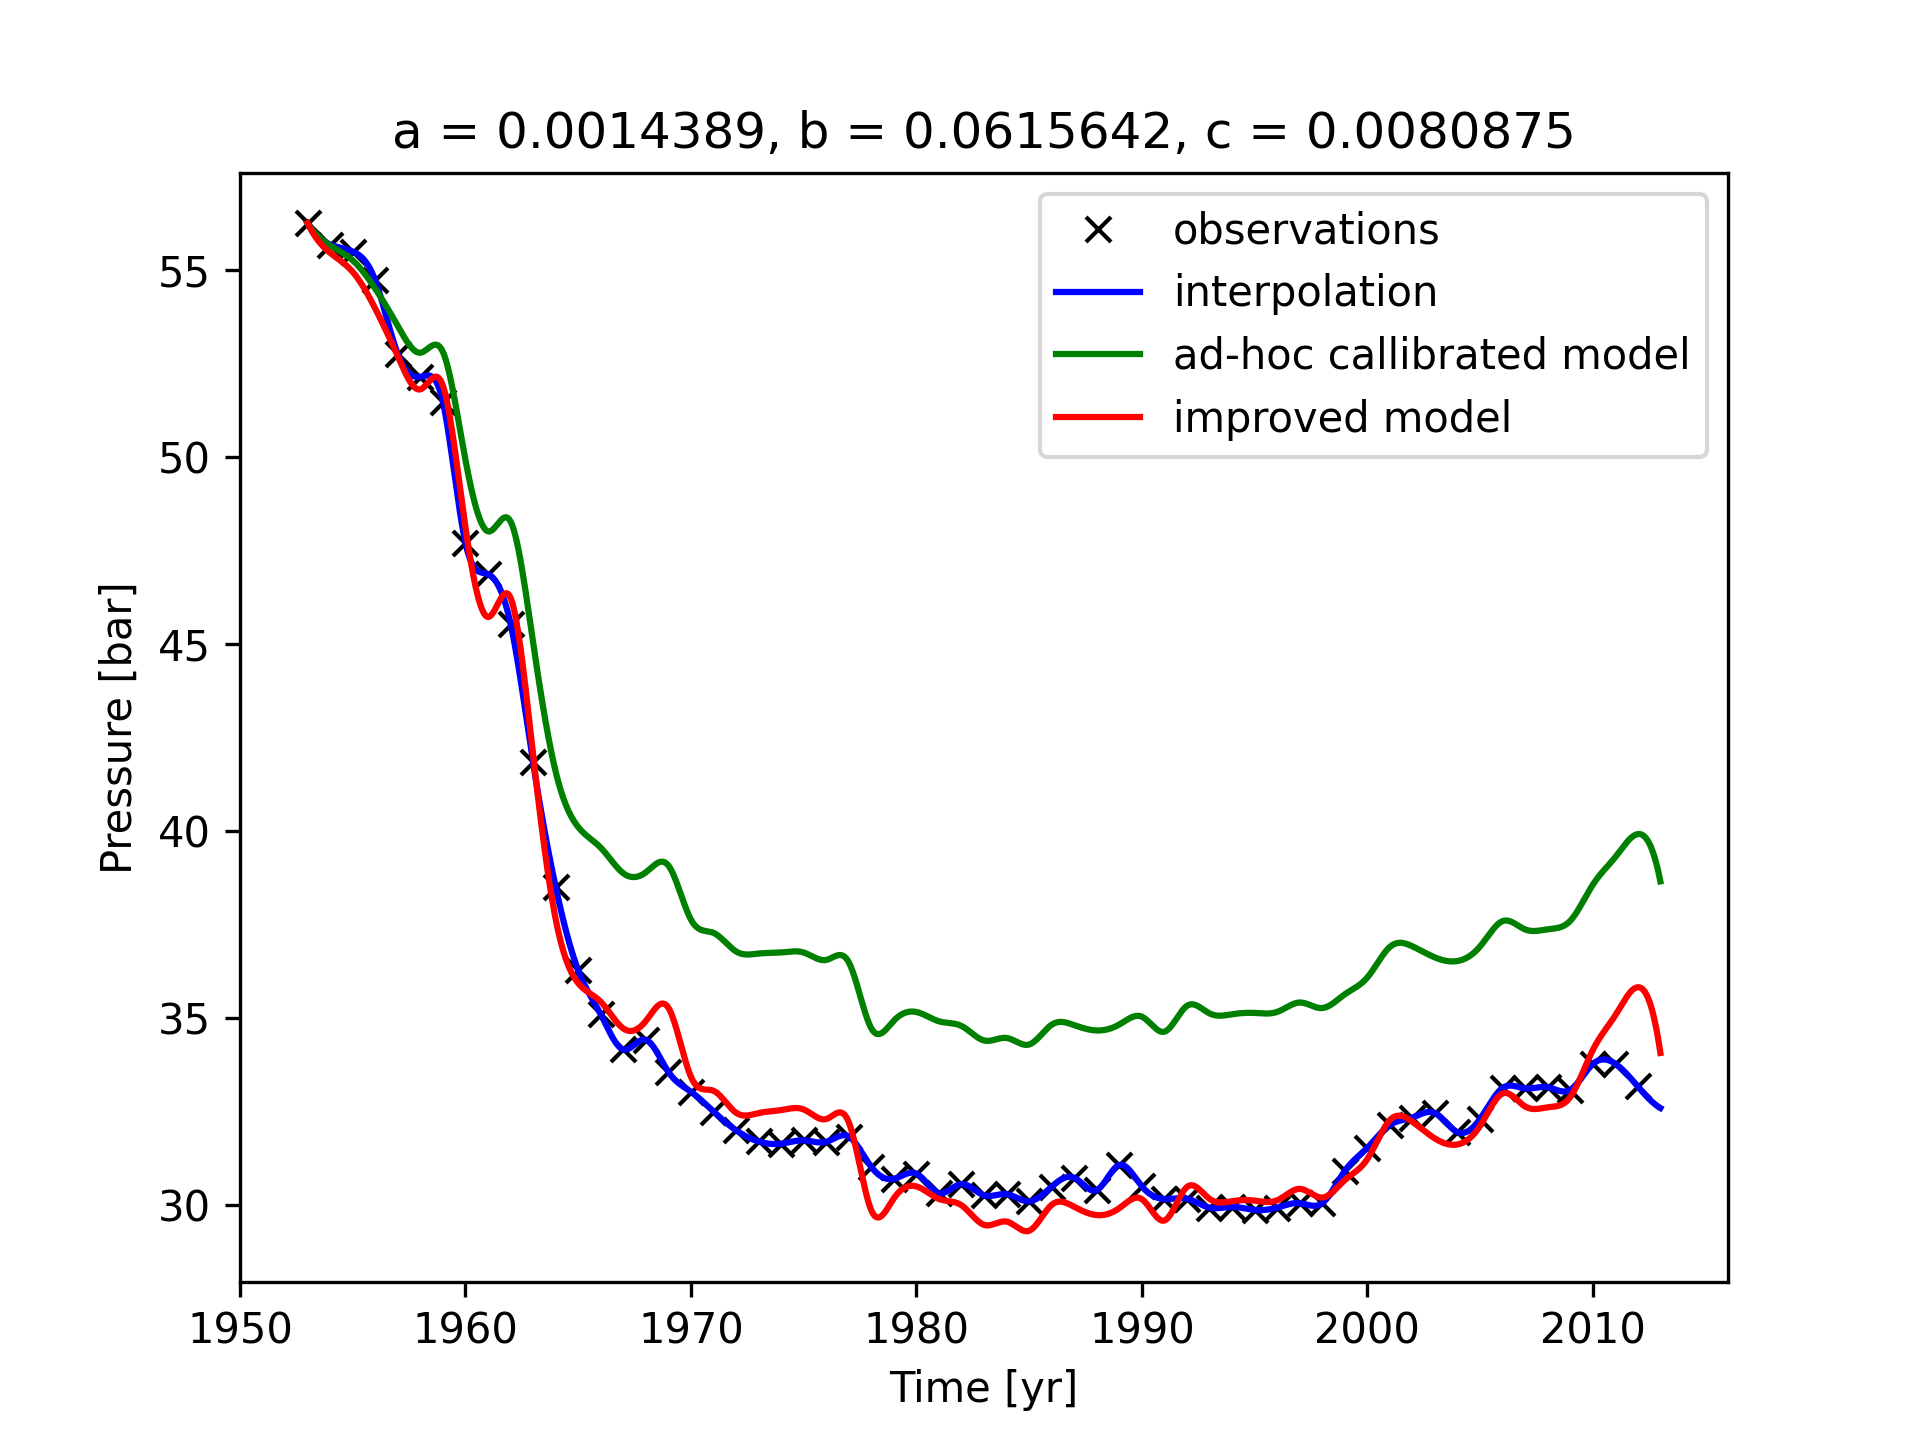
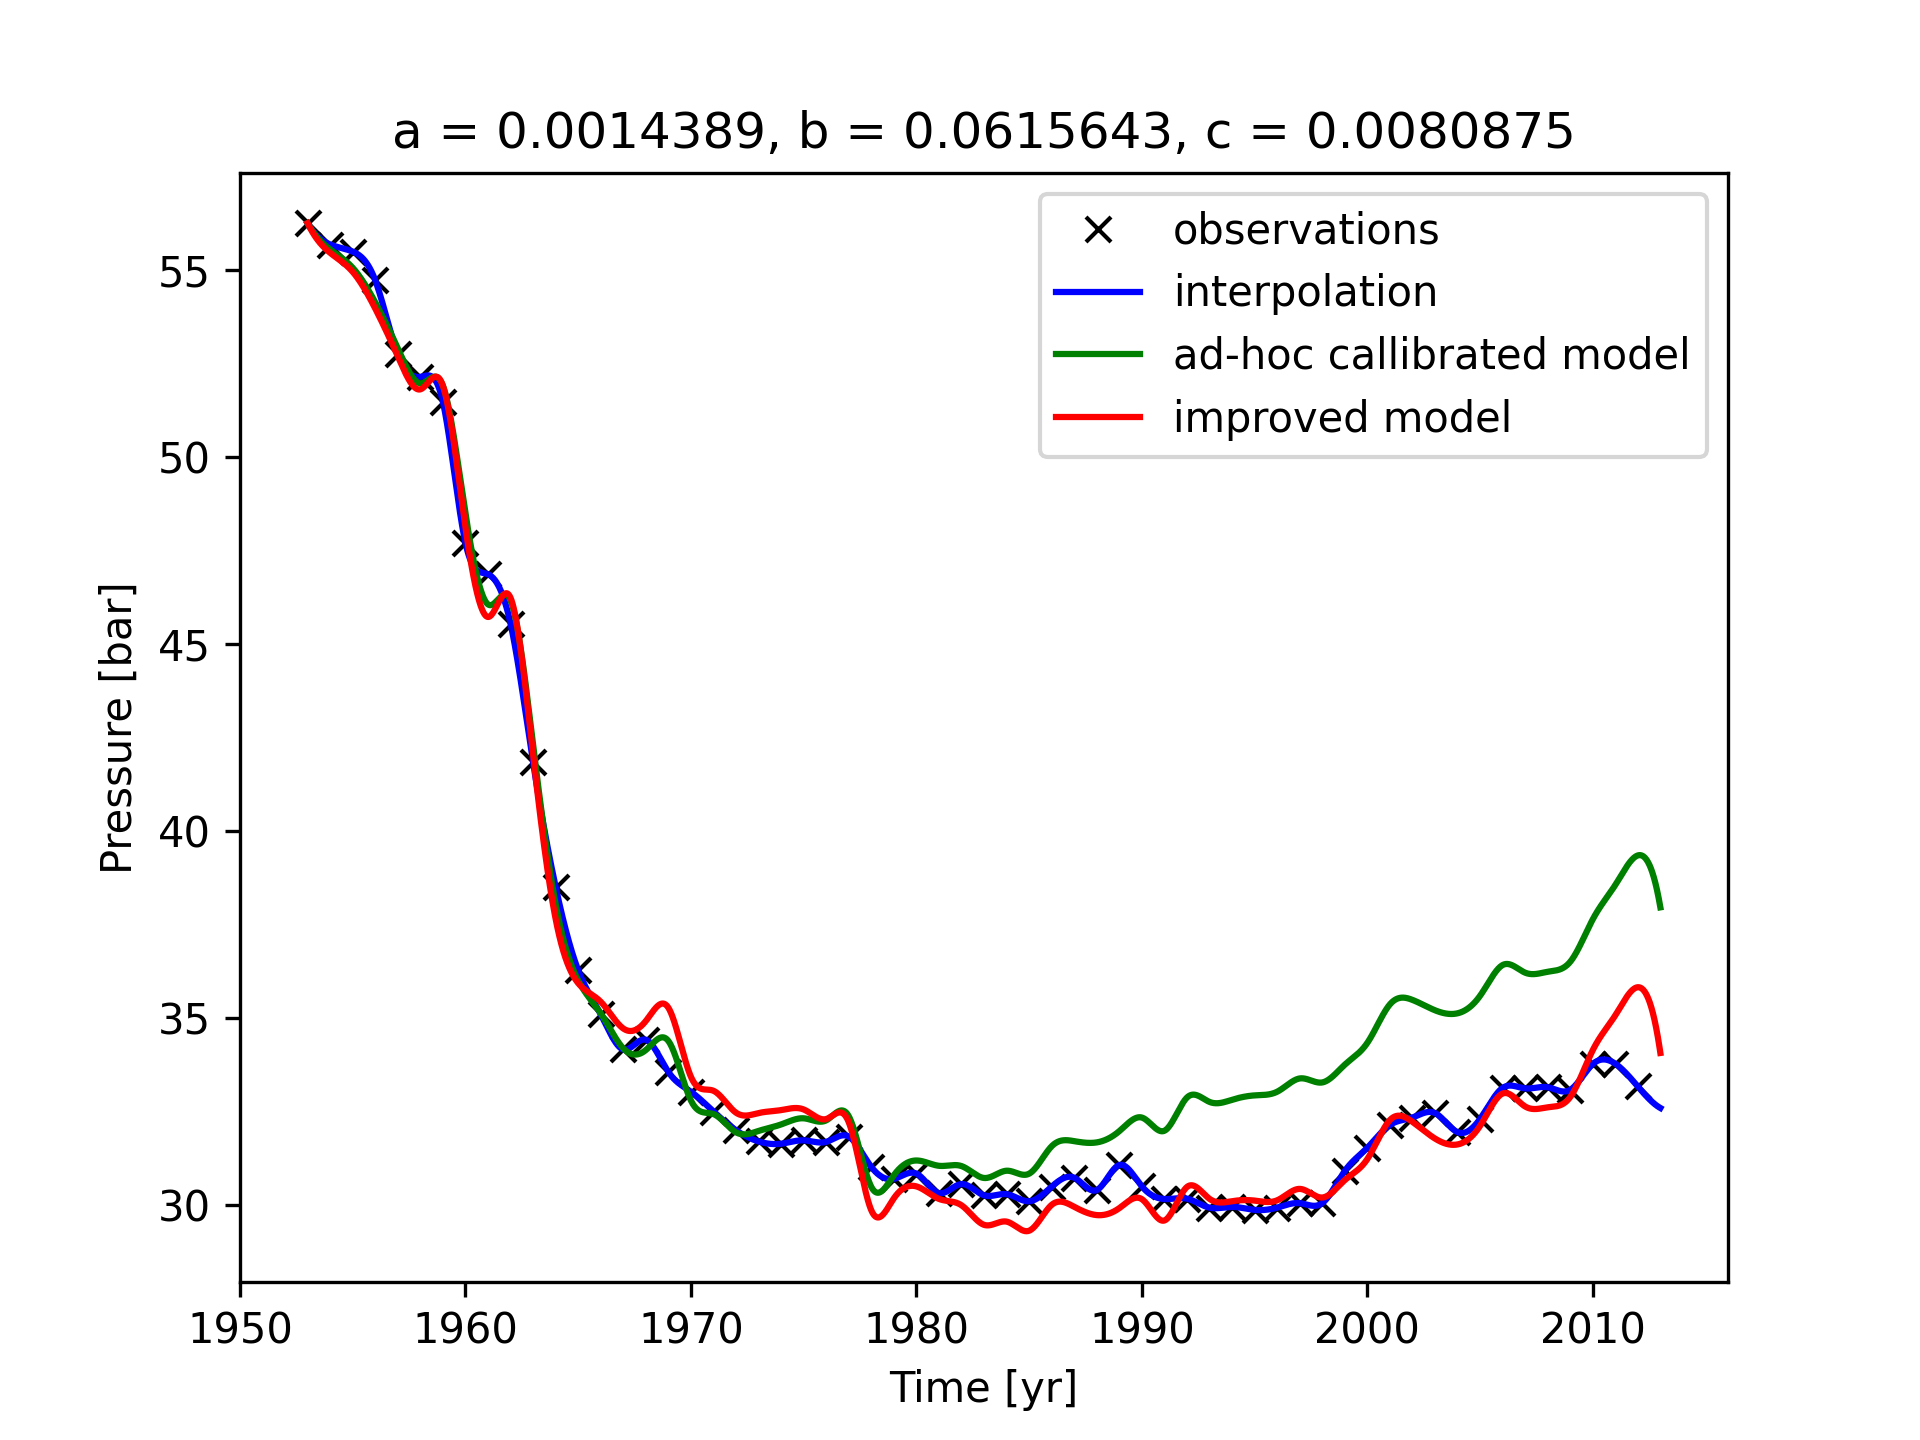
Added code to produce misfit graphs for both models

diff --git a/callibration.py b/callibration.py
@@ -9,6 +9,7 @@
 ###################################################################################################
 
 #library imports
+from re import T
 import numpy as np
 from matplotlib import pyplot as plt
 from scipy.optimize import curve_fit
@@ -49,12 +50,12 @@ def plot_pressure_model(display= False):
     t1 = 2013 #End time
     dt = 0.01 #Time step
 
-    #Parameters - ad-hoc estimates
     p0 = 56.26 #Ambient Pressure
     p_init= 56.26 #Initial Pressure
-    a = 1.3e-3
-    b = 0.07
-    c = 0.006
+    #Parameters - ad-hoc estimates
+    a = 2.2e-03
+    b = 1.1e-01
+    c = 6.8e-03
     pars = [a, b, c]
     
     t_range = np.arange(t0, t1 + dt, dt) #Time range
@@ -204,7 +205,133 @@ def plot_subsidence_model(display= False):
 
     return d_const, Tm_const, Td_const
 
+
+def plot_pressure_misfit(a, b, c, display= False):
+    """Plots a misfit scatter plot of the best fitted pressure model against the data
+
+    Parameters:
+    ----------
+    a : float
+        Source/sink strength parameter
+    b : float
+        Recharge strength parameter
+    c : float
+        Slow-drainage strength parameter
+    display : boolean, optional
+        boolean to either display(TRUE) or save plots(FALSE), by default False
+    
+    Returns:
+    ------
+    Plot :
+        Plot of the misfit from the best fitted model and the data
+    """
+    t0 = 1953  # Start time
+    t1 = 2013  # End time
+    dt = 0.125  # Time step
+    p0 = 56.26 #Ambient Pressure
+    p_init= 56.26 #Initial Pressure 
+    pars = [a, b, c]
+
+    t_range = np.arange(t0, t1 + dt, dt) #Time range
+    #Load in mass extraction values interpolated at t_range times
+    t_data, q_data = load_mass_exraction_data()
+    q = interpolate_mass_extraction(t_data, q_data, t_range)
+    #Find the derivative at each point numerically
+    dqdt = np.gradient(q, dt)
+
+    #Pressure data
+    t_data, p_data = load_pressure_data()
+
+    #Best Model fitted
+    t_model, p_model_vals = solve_pressure_ode(pressure_ode, t0, t1, dt, q, dqdt, p_init, p0, pars)
+
+    misfit= [] 
+    t_model = list(t_model)
+    #Compute misfit array
+    for t_dat, p_dat in zip(t_data, p_data):
+        index = t_model.index(int(t_dat))
+        misfit.append(p_model_vals[index]- p_dat)
+
+    f1, ax1 = plt.subplots(nrows=1, ncols=1)    
+
+    plt.plot(t_data, misfit, "x", color="red", label="misfit")
+    plt.axhline(0.0, linestyle= "dotted" )
+
+    plt.xlabel('Time [years]')
+    plt.ylabel('Pressure misfit [bars]')
+    plt.title('Misfit of best fitted model against data.')
+    plt.legend()
+
+
+    if display:
+        plt.show()
+    else:
+        plt.savefig('pressure_model_misfit', dpi=300)
+        plt.close()
+
+
+def plot_subsidence_misfit(d, Tm, Td, display= False):
+    """Plots a misfit scatter plot of the best fitted subsidence model against the interpolated data
+
+    Parameters:
+    ----------
+    d : float
+        Lumped parameter
+    Tm : float
+        year when subsidence event reaches its peak
+    Td : float
+        diffusion time (years)
+    
+    Returns:
+    ------
+    Plot :
+        Plot of the misfit from the best fitted model and the interpolated data
+    """
+    t0 = 1952  # Start time
+    t1 = 2013  # End time
+    dt = 0.125  # Time step
+    p0 = 56.26  # Ambient Pressure outside the reservoir
+    pars = [d, Tm, Td]
+
+    t_range = np.arange(t0, t1 + dt, dt) #Time range
+    t_data, p_data = load_pressure_data()
+    p = interpolate_pressure_data(t_data, p_data, t_range)
+
+    #Interpolation of Subsidence data
+    t_s_data, s_data = load_subsidence_data()
+    year_range = np.arange(t0, t1 + dt, 1) #Time range
+    s_interp = interpolate_subsidence_data(t_s_data, s_data, year_range)
+
+    #Best Model fitted
+    t_model, s_fitted = solve_subsidence_model(t_range, t0, t1, dt, p, p0, pars)
+
+    misfit= [] 
+    t_model = list(t_model)
+    #Compute misfit array
+    for t_dat, s_dat in zip(t_s_data, s_data):
+        index = t_model.index(int(t_dat))
+        misfit.append(s_fitted[index]- s_dat)
+
+    f1, ax1 = plt.subplots(nrows=1, ncols=1)    
+
+    plt.plot(t_s_data, misfit, "x", color="red", label="misfit")
+    plt.axhline(0.0, linestyle= "dotted" )
+
+    plt.xlabel('Time [years]')
+    plt.ylabel('Subsidence misfit [bars]')
+    plt.title('Misfit of best fitted model against interpolated data.')
+    plt.legend()
+
+
+    if display:
+        plt.show()
+    else:
+        plt.savefig('subsidence_model_misfit', dpi=300)
+        plt.close()
+
+
 if __name__ == "__main__":
     a, b, c = plot_pressure_model(display)
     d, Tm, Td = plot_subsidence_model(display)
-
+    plot_pressure_misfit(a, b, c, display)
+    plot_subsidence_misfit(d, Tm, Td, display)
